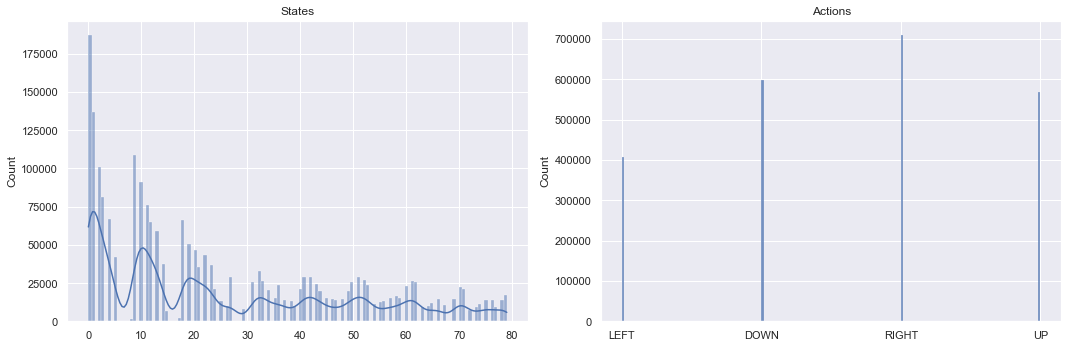
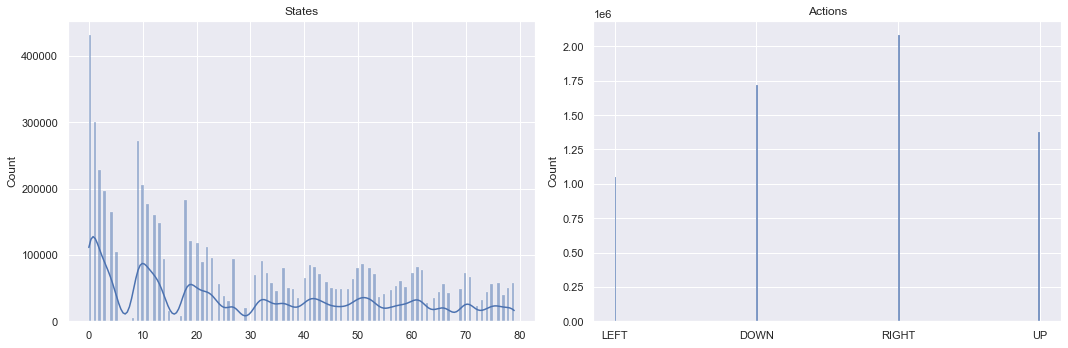
Winrate statistics

diff --git a/Codigo/frozen_lake_qlearning.py b/Codigo/frozen_lake_qlearning.py
@@ -31,14 +31,14 @@ class Params(NamedTuple):
 
 
 params = Params(
-    total_episodes=2000,
+    total_episodes=20000,
     learning_rate=0.8,
     gamma=0.95,
     epsilon=0.1,
     map_size=5,
     seed=123,
     is_slippery=True,
-    n_runs=20,
+    n_runs=5,
     action_size=None,
     state_size=None,
     proba_frozen=0.9,
@@ -343,5 +343,24 @@ def plot_steps_and_rewards(rewards_df, steps_df):
     fig.savefig(params.savefig_folder / img_title, bbox_inches="tight")
     plt.show()
 
-
-plot_steps_and_rewards(res_all, st_all)
+def winrate(rewards,n_episodes,n_runs):
+    # Crear un array para almacenar los conteos de 0 y 1
+    episodes_per_it = int(n_episodes/10)
+    conteos = np.zeros((episodes_per_it, 2), dtype=int)
+    
+    # Iterar sobre cada columna de la matriz
+    for i in range(n_runs):
+        columna = rewards[:, i]
+    
+        for j in range(10):
+            new_columna=columna[(episodes_per_it)*j:(episodes_per_it)*(j+1)]
+            # Contar los elementos iguales a 0 y 1 en la columna
+            #conteos[(episodes_per_it)*j:(episodes_per_it)*(j+1), 0] = np.count_nonzero(new_columna == 0)
+            #conteos[(episodes_per_it)*j:(episodes_per_it)*(j+1), 1] = np.count_nonzero(new_columna == 1)
+            conteos[:, 0] = np.count_nonzero(new_columna == 0)
+            conteos[:, 1] = np.count_nonzero(new_columna == 1)
+            # Imprimir los conteos
+            print(f"Run number {i}, Percentile number{j*10}%: Loses = {conteos[j, 0]}, Wins = {conteos[j, 1]}, Winrate = {int(conteos[j,1]/(episodes_per_it)*100)}")
+    
+winrate(rewards,params.total_episodes,params.n_runs)
+#plot_steps_and_rewards(res_all, st_all)
